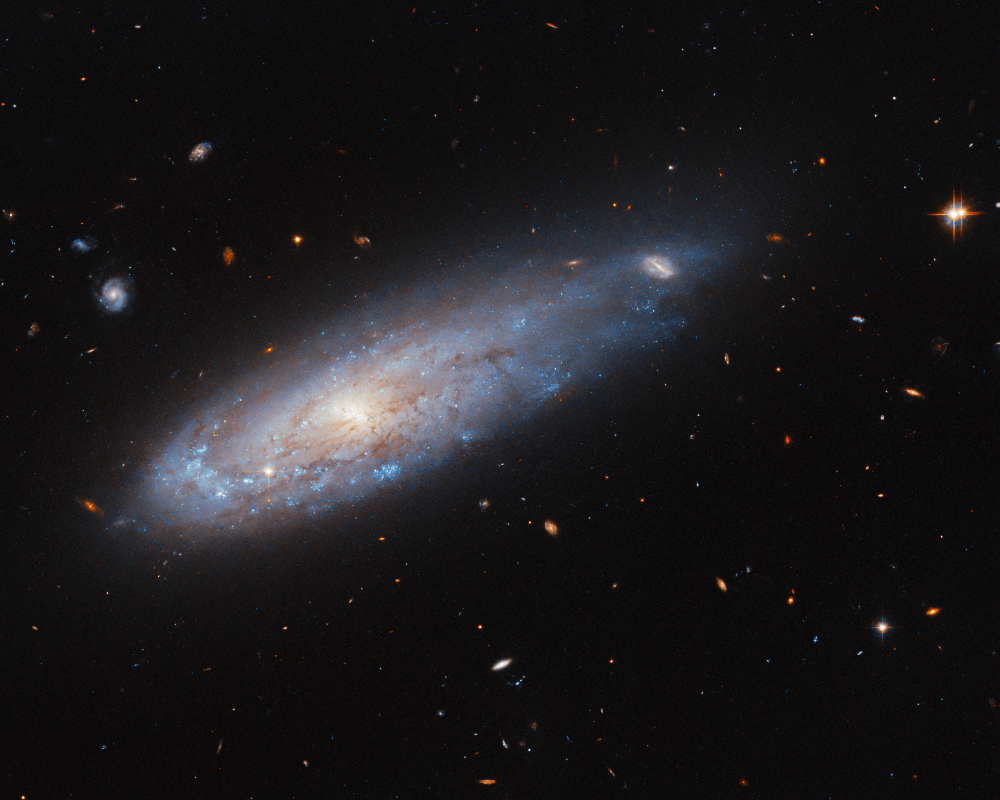
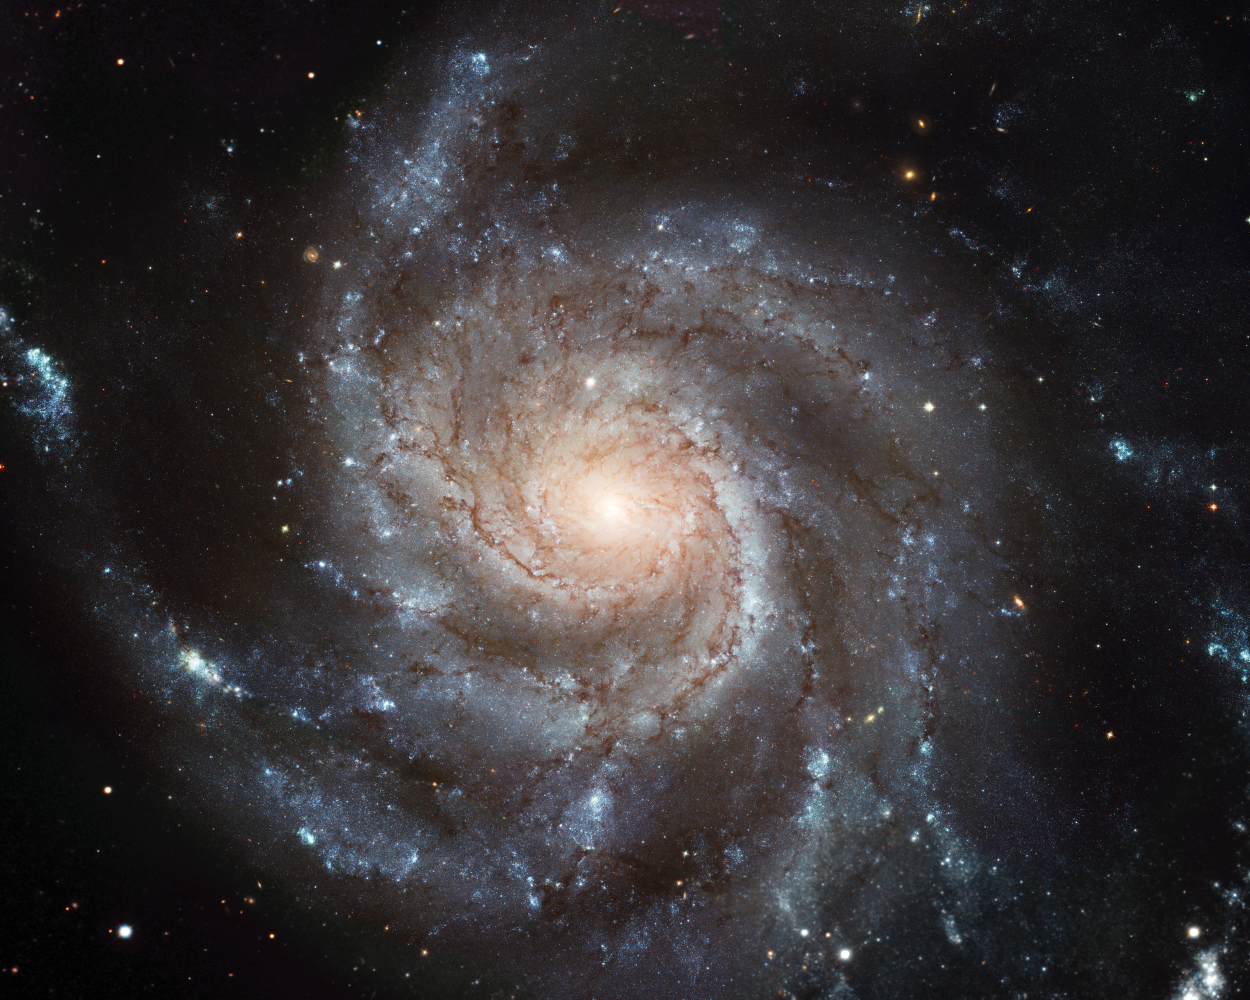
Updated UI to include transparent button colors.

diff --git a/src/UI/UI.py b/src/UI/UI.py
@@ -1,6 +1,6 @@
 import pygame
 
-SCREEN_HEIGHT = 950
+SCREEN_HEIGHT = 960
 SCREEN_WIDTH = int(SCREEN_HEIGHT*1.25)
 FPS = 30
 
@@ -34,6 +34,11 @@ CAN_RED_HI = (200, 100, 100)
 MENU_BUTTON_COLOR = (0, 125, 125)
 MENU_BUTTON_COLOR_HI = (0,175, 175)
 
+MAIN_BUTTON_COLOR = (0, 0, 0, 125)
+MAIN_BUTTON_COLOR_HI = (0, 0, 0, 255)
+
+HANDLE_COLOR = (0, 0, 0)
+
 BG_COLOR = (0, 0, 20)
 
 def load_background(path, screen_width, screen_height):
@@ -45,13 +50,14 @@ def load_background(path, screen_width, screen_height):
         print(f"Could not load background image: {e}")
         return None
 
+
 class Button:
     def __init__(self, x, y, width, height, text, callback, bg_color=GREY, hover_color=LIGHT_GREY, text_color=WHITE):
         self.rect = pygame.Rect(x, y, width, height)
         self.text = text
         self.callback = callback
-        self.bg_color = bg_color
-        self.hover_color = hover_color
+        self.bg_color = (*bg_color, 255) if len(bg_color) == 3 else bg_color
+        self.hover_color = (*hover_color, 255) if len(hover_color) == 3 else hover_color
         self.text_color = text_color
         self.enabled = True
 
@@ -67,15 +73,19 @@ class Button:
 
     def draw(self, surface, font):
         if not self.enabled:
-            color = DARK_GREY
+            color = (*DARK_GREY, 255)
         else:
             mouse_pos = pygame.mouse.get_pos()
             color = self.hover_color if self.rect.collidepoint(mouse_pos) else self.bg_color
 
-        pygame.draw.rect(surface, color, self.rect, border_radius=5)
+        button_surface = pygame.Surface((self.rect.width, self.rect.height), pygame.SRCALPHA)
+        pygame.draw.rect(button_surface, color, button_surface.get_rect(), border_radius=5)
+
         text_surf = font.render(self.text, True, self.text_color)
-        text_rect = text_surf.get_rect(center=self.rect.center)
-        surface.blit(text_surf, text_rect)
+        text_rect = text_surf.get_rect(center=button_surface.get_rect().center)
+        button_surface.blit(text_surf, text_rect)
+
+        surface.blit(button_surface, self.rect)
 
 class ToggleButton(Button):
     def __init__(self, x, y, width, height, text, callback=None, initial_state=False,
@@ -85,11 +95,11 @@ class ToggleButton(Button):
         self.active_color = active_color
 
         # Toggle switch dimensions
-        self.switch_width = 40
-        self.switch_height = height - 10
+        self.switch_width = int(0.02*SCREEN_WIDTH)
+        self.switch_height = int(0.02*SCREEN_WIDTH)
         self.switch_rect = pygame.Rect(
-            self.rect.right - self.switch_width - 5,
-            self.rect.y + 5,
+            self.rect.right - self.switch_width - int(0.005*SCREEN_WIDTH),
+            self.rect.y + int(0.005*SCREEN_WIDTH),
             self.switch_width,
             self.switch_height
         )
@@ -262,7 +272,7 @@ class Slider:
 
         pygame.draw.line(surface, WHITE, (self.rect.x, self.rect.y + int(0.01*SCREEN_HEIGHT)),
                          (self.rect.x + self.rect.width, self.rect.y + int(0.01*SCREEN_HEIGHT)), 5)
-        pygame.draw.circle(surface, ORANGE, (self.handle_x, self.rect.y + int(0.01*SCREEN_HEIGHT)), self.handle_radius)
+        pygame.draw.circle(surface, HANDLE_COLOR, (self.handle_x, self.rect.y + int(0.01*SCREEN_HEIGHT)), self.handle_radius)
 
         label_text = f"{self.label}: {self.format_value()}"
         label_surf = font.render(label_text, True, WHITE)

diff --git a/src/UI/UIBox.py b/src/UI/UIBox.py
@@ -2,10 +2,10 @@ import pygame
 from . import UI
 
 # Constants for ShipList and Fleet
-SCROLLBAR_WIDTH = 10
-SCROLL_BUTTON_HEIGHT = 10
+SCROLLBAR_WIDTH = int(0.01*UI.SCREEN_WIDTH)
+SCROLL_BUTTON_HEIGHT = int(0.01*UI.SCREEN_HEIGHT)
 SCROLL_SPEED = 20
-SPACING = 5
+SPACING = int(0.005*UI.SCREEN_WIDTH)
 
 class ShipContainer:
     def __init__(self, x, y, width, height, title, icon_size):

diff --git a/src/Main.py b/src/Main.py
@@ -52,8 +52,8 @@ def main():
             height=button_height,
             text=text,
             callback=lambda m=module: handle_menu_selection(m, screen),
-            bg_color=UI.MENU_BUTTON_COLOR,
-            hover_color=UI.MENU_BUTTON_COLOR_HI
+            bg_color=UI.MAIN_BUTTON_COLOR,
+            hover_color=UI.MAIN_BUTTON_COLOR_HI
         )
         buttons.append(button)
 

diff --git a/src/PickFleet.py b/src/PickFleet.py
@@ -133,7 +133,7 @@ def run(screen: pygame.Surface):
 
     left_column_start =  int(0.033*UI.SCREEN_WIDTH)
     top_button_start = int(0.1*UI.SCREEN_HEIGHT)
-    AI_toggle_width = int(0.1*UI.SCREEN_WIDTH)
+    AI_toggle_width = int(0.075*UI.SCREEN_WIDTH)
     top_button_height = int(0.0375*UI.SCREEN_HEIGHT)
     each_button_width = selection_width-AI_toggle_width-UI.button_spaceH
 

diff --git a/src/PlaySettings.py b/src/PlaySettings.py
@@ -75,7 +75,7 @@ def run(screen):
     for i, label in enumerate(player2_labels):
         key_bindings.append(
             UI.KeyBinding(
-                int(0.75*UI.SCREEN_WIDTH),
+                int(0.65*UI.SCREEN_WIDTH),
                 start_y + i * y_spacing,
                 int(0.2*UI.SCREEN_WIDTH),
                 int(0.05*UI.SCREEN_HEIGHT),